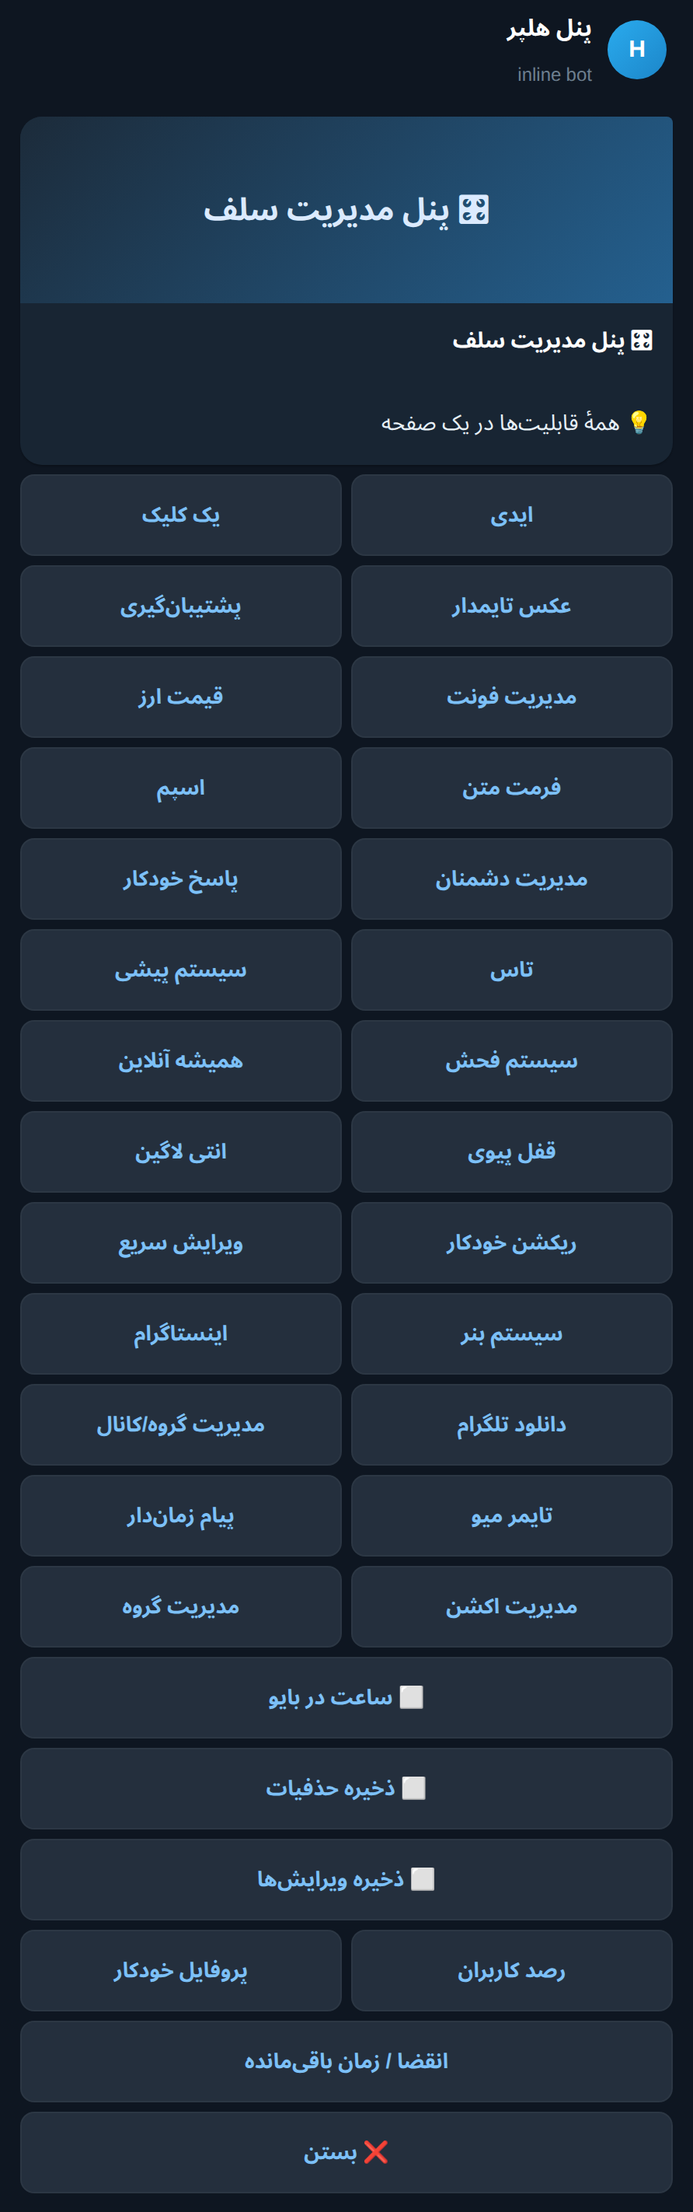
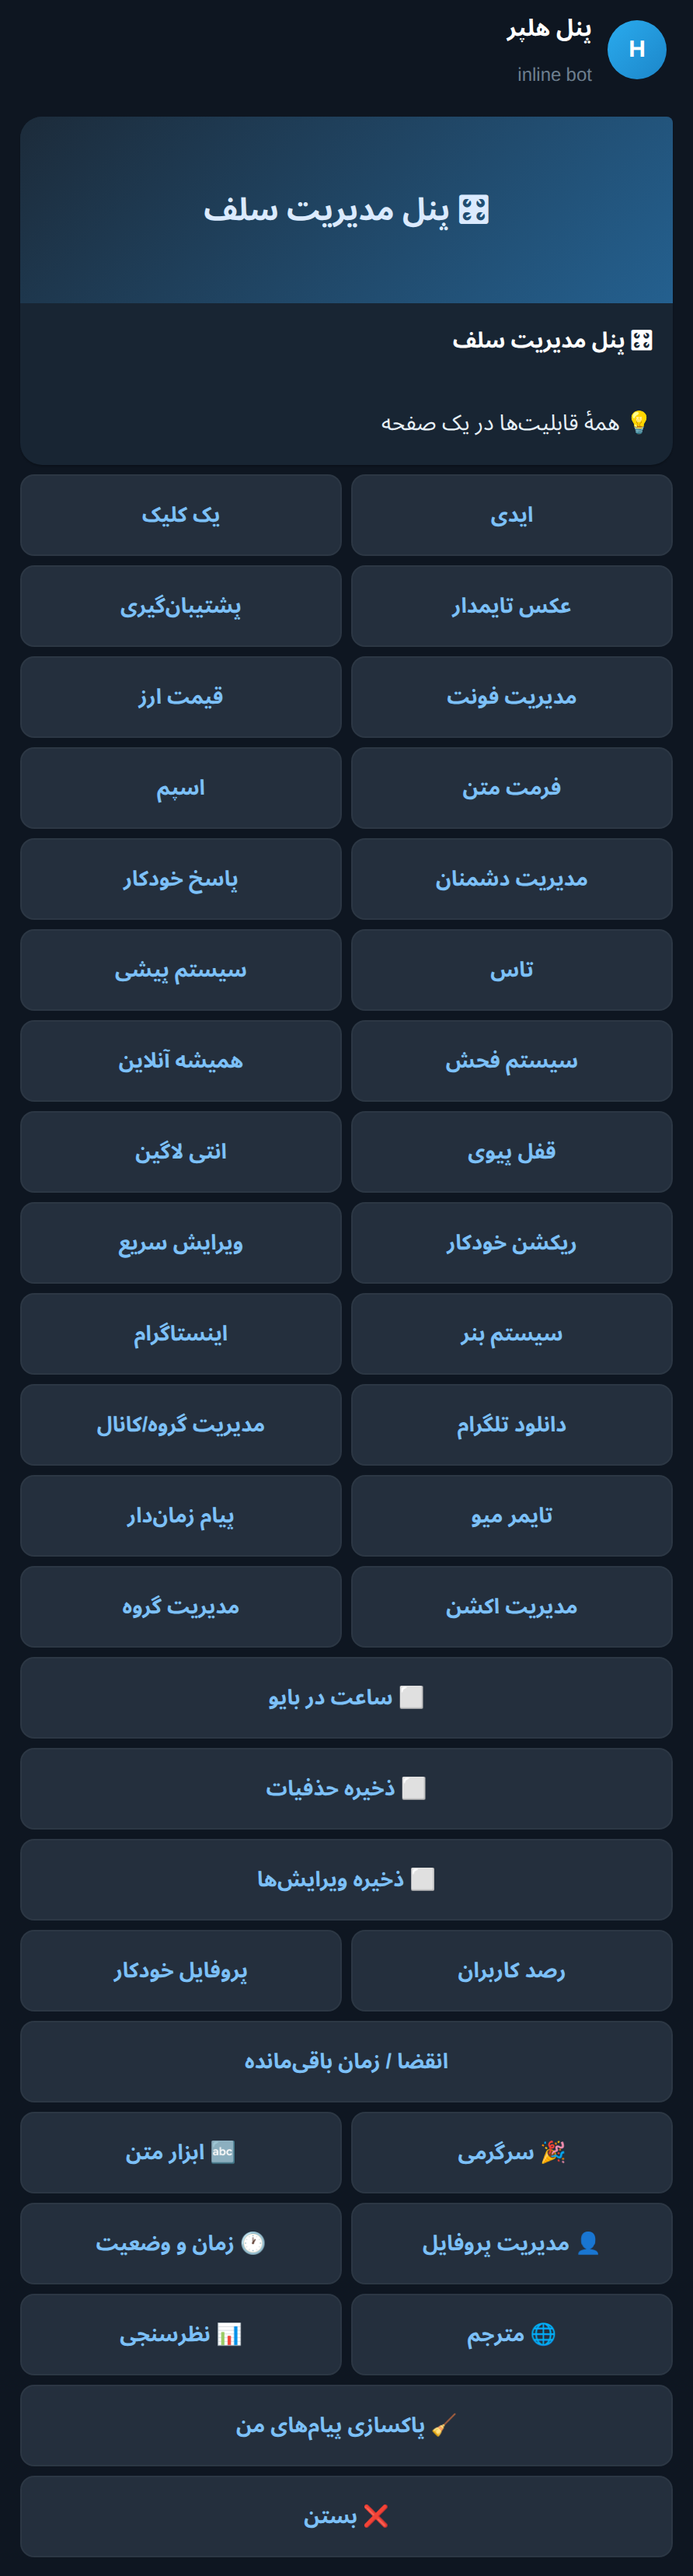
docs: refresh helper panel mockup with new advanced buttons

Changed region(s): [[0.0303, 0.0, 0.9686, 1.0]]

diff --git a/mockups/gen.py b/mockups/gen.py
@@ -128,6 +128,10 @@ PAGES.append(page(
      ["⬜ ذخیره ویرایشها"],
      ["رصد کاربران", "پروفایل خودکار"],
      ["انقضا / زمان باقیمانده"],
+     ["🎉 سرگرمی", "🔤 ابزار متن"],
+     ["👤 مدیریت پروفایل", "🕐 زمان و وضعیت"],
+     ["🌐 مترجم", "📊 نظرسنجی"],
+     ["🧹 پاکسازی پیامهای من"],
      ["❌ بستن"]],
     ava="H", banner_text="🎛 پنل مدیریت سلف"))
 
@@ -179,6 +183,11 @@ def shoot(fname, path):
     print("saved", png, canvas.size)
 
 
-for fname, path in PAGES:
-    shoot(fname, path)
-print("DONE")
+if __name__ == "__main__":
+    import sys
+    only = sys.argv[1] if len(sys.argv) > 1 else None
+    for fname, path in PAGES:
+        if only and only not in fname:
+            continue
+        shoot(fname, path)
+    print("DONE")
